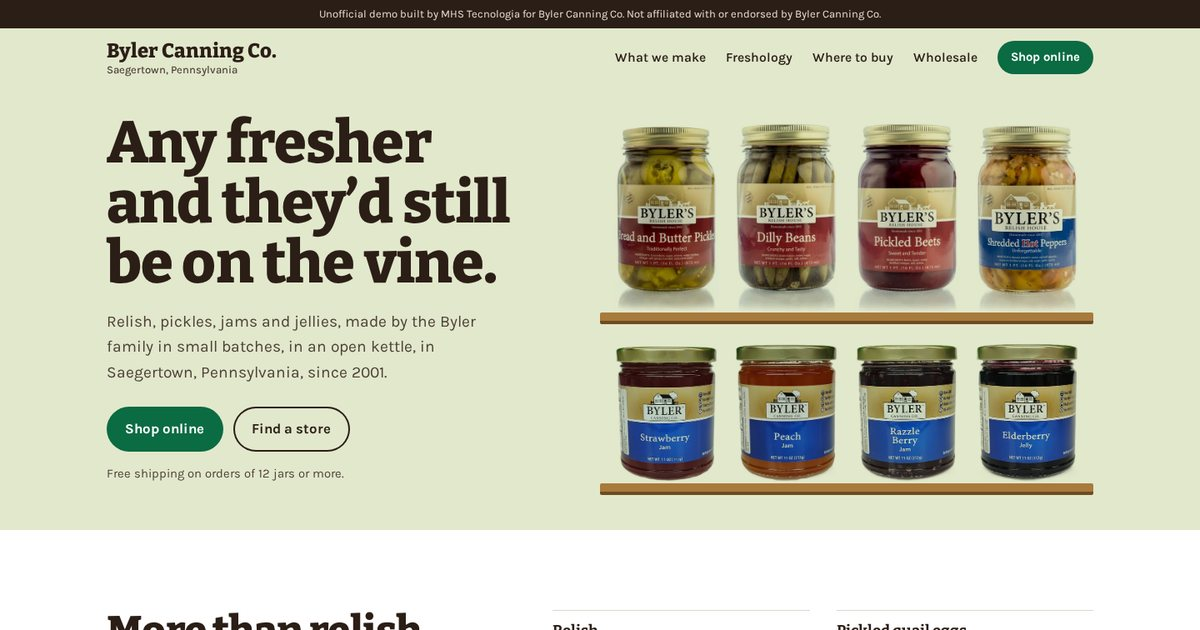
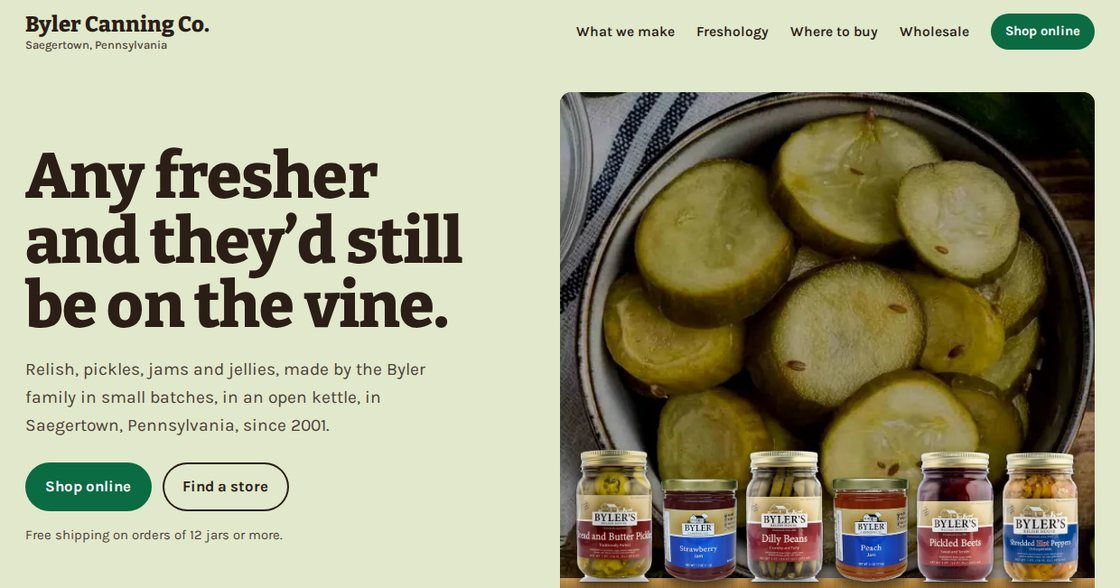
Previews: 11 ativos

diff --git a/byler-canning-pa/index.html b/byler-canning-pa/index.html
@@ -16,7 +16,7 @@
 <meta property="og:url" content="https://demo.mhstecnologia.com/byler-canning-pa/">
 <meta name="twitter:card" content="summary_large_image">
 <link rel="preload" as="font" type="font/woff2" href="fonts/bitter.woff2" crossorigin>
-<link rel="preload" as="image" href="img/jar-bread-butter-300.webp" imagesrcset="img/jar-bread-butter-300.webp 300w, img/jar-bread-butter-600.webp 600w" imagesizes="(max-width: 860px) 22vw, 140px" fetchpriority="high">
+<link rel="preload" as="image" href="img/hero-600.webp" imagesrcset="img/hero-600.webp 600w, img/hero-1000.webp 1000w" imagesizes="(max-width: 860px) calc(100vw - 2rem), 592px" fetchpriority="high">
 <style>
   @font-face { font-family: "Bitter"; font-weight: 100 900; font-display: swap; src: url(fonts/bitter.woff2) format("woff2"); }
   @font-face { font-family: "Karla"; font-weight: 200 800; font-display: swap; src: url(fonts/karla.woff2) format("woff2"); }
@@ -49,7 +49,7 @@
   h3 { font-size: 1.3rem; line-height: 1.2; font-weight: 700; }
   [id] { scroll-margin-top: 1rem; }
   .skip { position: absolute; left: -999px; top: .5rem; background: #fff; padding: .5rem 1rem; z-index: 10; }
-  .skip:focus { left: .5rem; }
+  .skip:focus { left: .5rem; outline: 3px solid var(--ink); outline-offset: 2px; border-radius: .25rem; }
   .wrap { max-width: var(--max); margin: 0 auto; }
   .num { font-variant-numeric: tabular-nums; }
 
@@ -72,21 +72,26 @@
 
   /* Hero: the copy on the left, the pantry on the right. Pints on the top
      shelf, jam on the bottom, every jar at its true height. */
-  .hero { display: grid; grid-template-columns: minmax(0, 1fr) minmax(0, 37rem); grid-template-areas: "copy a" "copy b"; column-gap: clamp(2rem, 5vw, 5rem); align-items: end; padding: clamp(1.5rem, 3vw, 2.5rem) var(--pad) clamp(2.5rem, 4vw, 3.5rem); max-width: calc(var(--max) + 2 * var(--pad)); margin: 0 auto; }
+  .hero { display: grid; grid-template-columns: minmax(0, 1fr) minmax(0, 37rem); grid-template-areas: "copy a"; column-gap: clamp(2rem, 5vw, 5rem); align-items: center; padding: clamp(1.5rem, 3vw, 2.5rem) var(--pad) clamp(2.5rem, 4vw, 3.5rem); max-width: calc(var(--max) + 2 * var(--pad)); margin: 0 auto; }
   .copy { grid-area: copy; align-self: center; }
   .hero h1 { font-size: clamp(2.35rem, 5vw, 4.4rem); line-height: 1.02; text-wrap: balance; max-width: 13ch; }
   .lede { margin-top: 1.2rem; max-width: 31rem; font-size: clamp(1.05rem, 1.35vw, 1.2rem); color: var(--ink-2); }
   .actions { margin-top: 1.6rem; display: flex; flex-wrap: wrap; gap: .75rem; }
   .hint { margin-top: .9rem; font-size: .925rem; color: var(--ink-2); }
 
-  .shelf { display: flex; justify-content: center; align-items: flex-end; gap: clamp(.4rem, 1.4vw, 1.1rem); padding: 0 1rem; position: relative; }
-  .shelf.a { grid-area: a; }
-  .shelf.b { grid-area: b; margin-top: 1.6rem; }
-  .shelf::after { content: ""; position: absolute; left: 0; right: 0; bottom: -14px; height: 14px; border-radius: 2px;
-    background: linear-gradient(var(--oak) 0 70%, var(--oak-dk) 70%); box-shadow: 0 10px 14px -8px rgba(43,30,22,.45); }
-  .shelf a { display: block; flex: 0 1 8.4rem; border-radius: .4rem; }
-  .shelf img { width: 100%; mix-blend-mode: multiply; }
-  .shelf.b a { flex-basis: 8.1rem; }
+  /* The stage: their own bowl of pickles, with an oak shelf of jars in front. */
+  .stage { grid-area: a; position: relative; border-radius: .8rem; overflow: hidden; aspect-ratio: 592 / 560; background: #3a4a2c; }
+  .stage > img { position: absolute; inset: 0; width: 100%; height: 100%; object-fit: cover; object-position: 50% 30%; }
+  .stage::before { content: ""; position: absolute; inset: auto 0 0 0; height: 45%; background: linear-gradient(transparent, rgba(30,20,10,.42)); }
+  .shelf { position: absolute; left: 0; right: 0; bottom: 0; display: flex; justify-content: center; align-items: flex-end; gap: clamp(.3rem, .8vw, .6rem); padding: 0 clamp(.7rem, 1.6vw, 1.1rem) 20px; }
+  .shelf::after { content: ""; position: absolute; left: 0; right: 0; bottom: 0; height: 22px;
+    background:
+      repeating-linear-gradient(90deg, rgba(60,35,10,.10) 0 1px, transparent 1px 7px, rgba(255,235,200,.08) 7px 8px, transparent 8px 19px),
+      linear-gradient(#c79a5a 0, #b0823f 30%, #96692d 72%, #6b4a1f 72%, #5a3d18 100%);
+    box-shadow: 0 -1px 0 rgba(255,230,190,.35) inset; }
+  .shelf a { position: relative; z-index: 1; display: block; flex: 0 1 6.4rem; border-radius: .4rem; margin-bottom: -2px; }
+  .shelf img { width: 100%; filter: drop-shadow(0 8px 6px rgba(20,12,4,.45)) drop-shadow(0 1px 1px rgba(20,12,4,.5)); }
+  .chips { display: none; }
 
   section { padding: clamp(3.5rem, 7vw, 6rem) var(--pad); }
   .intro { max-width: 40rem; margin-top: 1rem; color: var(--ink-2); font-size: 1.1rem; }
@@ -106,24 +111,24 @@
 
   /* Freshology: their own word, set the way a dictionary would set it. */
   .fresh { background: var(--brine); }
-  .fresh .wrap { display: grid; grid-template-columns: minmax(0, 5fr) minmax(0, 6fr); gap: 2.5rem clamp(2rem, 5vw, 4.5rem); align-items: center; }
+  .fresh .wrap { display: grid; grid-template-columns: minmax(0, 6fr) minmax(0, 5fr); gap: 2.5rem clamp(2rem, 6vw, 6rem); align-items: start; }
   .entry .word { font-family: "Bitter", serif; font-weight: 800; color: var(--beet); font-size: clamp(2.9rem, 6vw, 4.7rem); line-height: .95; letter-spacing: -0.02em; }
   .entry .word span { color: var(--oak-dk); font-weight: 400; padding: 0 .04em; }
   .entry .pos { margin-top: .8rem; font-style: italic; color: var(--ink-2); }
   .entry .def { margin-top: .5rem; font-family: "Bitter", serif; font-weight: 500; font-size: clamp(1.2rem, 2vw, 1.5rem); line-height: 1.4; max-width: 30rem; }
   .entry .see { margin-top: .8rem; color: var(--ink-2); }
-  .fresh figure img { width: 100%; aspect-ratio: 1890 / 900; object-fit: cover; border-radius: .6rem; }
-  .fresh figcaption, .recipes figcaption { margin-top: .55rem; font-size: .875rem; color: var(--ink-2); }
-  .how { grid-column: 1 / -1; list-style: none; padding: 0; counter-reset: s; display: grid; grid-template-columns: repeat(3, minmax(0, 1fr)); gap: clamp(1.25rem, 3vw, 2.5rem); margin-top: clamp(1rem, 2vw, 1.5rem); }
-  .how li { counter-increment: s; border-top: 3px solid var(--ink); padding-top: 1rem; }
-  .how li::before { content: counter(s); font-family: "Bitter", serif; font-weight: 800; font-size: 1.1rem; color: var(--beet); display: block; margin-bottom: .3rem; }
+  .recipes figcaption { margin-top: .55rem; font-size: .875rem; color: var(--ink-2); }
+  .how { list-style: none; padding: 0; counter-reset: s; display: grid; gap: 1.5rem; }
+  .how li { counter-increment: s; border-top: 3px solid var(--ink); padding-top: .9rem; display: grid; grid-template-columns: 2rem 1fr; }
+  .how li > * { grid-column: 2; }
+  .how li::before { content: counter(s); grid-column: 1; grid-row: 1; font-family: "Bitter", serif; font-weight: 800; font-size: 1.3rem; line-height: 1.2; color: var(--beet); }
   .how p { margin-top: .4rem; color: var(--ink-2); }
-  .facts { grid-column: 1 / -1; display: flex; flex-wrap: wrap; gap: .6rem 2rem; font-weight: 600; padding-top: 1.4rem; border-top: 1px solid var(--brine-2); }
+  .facts { display: flex; flex-wrap: wrap; gap: .5rem 1.6rem; font-weight: 700; margin-top: 1.8rem; padding-top: 1.1rem; border-top: 1px solid #b7c196; }
 
   /* Recipes from their kitchen. Square photos, as they were shot. */
   .recipes .grid { margin-top: 2rem; display: grid; grid-template-columns: repeat(3, minmax(0, 1fr)); gap: 1.25rem; }
   .recipes figure a { display: block; text-decoration: none; }
-  .recipes img { width: 100%; aspect-ratio: 1; object-fit: cover; border-radius: .5rem; }
+  .recipes img { width: 100%; aspect-ratio: 4 / 3; object-fit: cover; border-radius: .5rem; }
   .recipes figcaption { font-family: "Bitter", serif; font-weight: 700; font-size: 1.05rem; color: var(--ink); }
   .recipes figure a:hover figcaption { text-decoration: underline; text-underline-offset: 4px; }
   .more { margin-top: 1.8rem; }
@@ -148,8 +153,10 @@
   .trade .btn:hover { background: #ecc685; }
   .trade a:not(.btn) { color: #fff; }
 
-  .contact .wrap { display: grid; grid-template-columns: minmax(0, 6fr) minmax(0, 5fr); gap: clamp(2rem, 5vw, 4rem); align-items: start; }
-  .card { border-top: 3px solid var(--ink); padding-top: 1.2rem; display: grid; gap: 1rem; }
+  .contact { padding-block: clamp(3rem, 5vw, 4.5rem); }
+  .contact .wrap { display: grid; grid-template-columns: minmax(0, 5fr) minmax(0, 7fr); gap: clamp(2rem, 5vw, 4rem); align-items: start; }
+  .card { border-top: 3px solid var(--ink); padding-top: 1.2rem; display: grid; grid-template-columns: 1fr 1fr; gap: 1rem 2rem; align-items: start; }
+  .card > div { display: grid; gap: .8rem; }
   .card address { font-style: normal; }
   .card .big { font-family: "Bitter", serif; font-weight: 700; font-size: clamp(1.4rem, 2.6vw, 1.8rem); text-decoration: none; }
   .card .big:hover { text-decoration: underline; text-underline-offset: 5px; }
@@ -158,41 +165,45 @@
 
   footer { background: var(--brine); padding: 1.5rem var(--pad) calc(1.5rem + env(safe-area-inset-bottom)); font-size: .875rem; color: var(--ink-2); text-align: center; }
   footer p { max-width: 50rem; margin: 0 auto; }
-  .dock { display: none; }
+  .dock { display: none; visibility: hidden; }
 
   @media (max-width: 860px) {
     header { padding-top: .7rem; }
     header nav a:not(.btn) { display: none; }
     .mark { font-size: 1.3rem; }
     .mark small { font-size: .75rem; }
-    .hero { grid-template-columns: 1fr; grid-template-areas: "a" "copy" "b"; padding-top: .75rem; padding-bottom: 2.5rem; }
-    .shelf { padding: 0 .4rem; gap: .5rem; }
-    .shelf a { flex-basis: 22%; }
-    .shelf.b a { flex-basis: 22%; }
-    .shelf.b { margin-top: 2.6rem; }
-    .copy { margin-top: 1.6rem; }
+    .hero { grid-template-columns: 1fr; grid-template-areas: "a" "copy"; padding-top: .75rem; padding-bottom: 2.5rem; }
+    html { scroll-padding-bottom: 5rem; }
+    .stage { aspect-ratio: 4 / 3; }
+    .shelf { gap: .5rem; padding-bottom: 16px; }
+    .shelf::after { height: 18px; }
+    .shelf a { flex-basis: 4.1rem; }
+    .shelf .wide { display: none; }
+    .copy { margin-top: 1.25rem; }
     .hero h1 { font-size: clamp(2rem, 8.6vw, 2.6rem); max-width: none; }
     .lede { margin-top: .7rem; font-size: 1rem; line-height: 1.5; }
     .actions { margin-top: 1.1rem; }
     .actions .btn { flex: 1 1 auto; }
     .hint { font-size: .875rem; margin-top: .6rem; }
+    .chips { display: flex; gap: .5rem; margin-top: 1.1rem; }
+    .chips a { flex: 1 1 0; text-align: center; padding: .6rem .4rem; border-radius: 2rem; background: rgba(255,255,255,.65); box-shadow: inset 0 0 0 1px rgba(43,30,22,.25); font-weight: 700; font-size: .925rem; text-decoration: none; }
 
-    .make .wrap, .fresh .wrap, .contact .wrap, .cols, .doors { grid-template-columns: 1fr; }
+    .make .wrap, .fresh .wrap, .contact .wrap, .cols, .doors, .card { grid-template-columns: 1fr; }
     .aisles summary { display: flex; justify-content: space-between; align-items: center; cursor: pointer; list-style: none; padding: 1rem 0; border-top: 3px solid var(--ink); font-weight: 700; font-size: 1.05rem; }
     .aisles summary::-webkit-details-marker { display: none; }
     .aisles summary::after { content: "+"; font-size: 1.5rem; line-height: 1; }
     .aisles[open] summary::after { content: "\2013"; }
     .aisles ul { columns: 1; }
-    .fresh figure { order: -1; }
-    .how { grid-template-columns: 1fr; gap: 1.25rem; }
+    .how { gap: 1.25rem; }
     .how p { margin-top: .25rem; }
     .facts { gap: .4rem 1.4rem; }
     .recipes .grid { grid-template-columns: 1fr 1fr; gap: .9rem .75rem; }
+    .recipes figure:first-child { grid-column: 1 / -1; }
     .recipes figcaption { font-size: .95rem; }
 
     .dock { display: flex; position: fixed; left: .75rem; right: .75rem; bottom: calc(.75rem + env(safe-area-inset-bottom)); z-index: 5; box-shadow: 0 8px 24px rgba(43,30,22,.35);
-      opacity: 0; transform: translateY(1rem); pointer-events: none; transition: opacity .2s ease, transform .2s ease; }
-    .dock.on { opacity: 1; transform: none; pointer-events: auto; }
+      opacity: 0; transform: translateY(1rem); pointer-events: none; transition: opacity .2s ease, transform .2s ease, visibility .2s; }
+    .dock.on { opacity: 1; transform: none; pointer-events: auto; visibility: visible; }
     footer { padding-bottom: calc(5.5rem + env(safe-area-inset-bottom)); }
   }
   @media (prefers-reduced-motion: reduce) {
@@ -219,11 +230,16 @@
 
     <main id="main">
       <div class="hero">
-        <div class="shelf a" aria-label="Pickles and vegetables, 16 oz jars">
-          <a href="https://bylercanningco.com/bread-and-butter-pickles/"><img src="img/jar-bread-butter-300.webp" srcset="img/jar-bread-butter-300.webp 300w, img/jar-bread-butter-600.webp 600w" sizes="(max-width: 860px) 22vw, 140px" width="300" height="538" alt="Bread and Butter Pickles" fetchpriority="high"></a>
-          <a href="https://bylercanningco.com/dilly-beans/"><img src="img/jar-dilly-beans-300.webp" srcset="img/jar-dilly-beans-300.webp 300w, img/jar-dilly-beans-600.webp 600w" sizes="(max-width: 860px) 22vw, 140px" width="300" height="544" alt="Dilly Beans"></a>
-          <a href="https://bylercanningco.com/pickled-beets/"><img src="img/jar-beets-300.webp" srcset="img/jar-beets-300.webp 300w, img/jar-beets-600.webp 600w" sizes="(max-width: 860px) 22vw, 140px" width="300" height="544" alt="Pickled Beets"></a>
-          <a href="https://bylercanningco.com/shredded-hot-peppers-in-oil/"><img src="img/jar-hot-peppers-300.webp" srcset="img/jar-hot-peppers-300.webp 300w, img/jar-hot-peppers-600.webp 600w" sizes="(max-width: 860px) 22vw, 140px" width="300" height="539" alt="Shredded Hot Peppers in Oil"></a>
+        <div class="stage">
+          <img src="img/hero-600.webp" srcset="img/hero-600.webp 600w, img/hero-1000.webp 1000w" sizes="(max-width: 860px) calc(100vw - 2rem), 592px" width="600" height="540" alt="A bowl of sliced pickles with fresh cucumbers, dill and coarse salt" fetchpriority="high">
+          <div class="shelf" role="group" aria-label="Byler jars">
+            <a href="https://bylercanningco.com/bread-and-butter-pickles/"><img src="img/cut-bread-butter-200.webp" srcset="img/cut-bread-butter-200.webp 200w, img/cut-bread-butter-400.webp 400w" sizes="(max-width: 860px) 66px, 92px" width="200" height="344" alt="Bread and Butter Pickles"></a>
+            <a href="https://bylercanningco.com/strawberry-jam-11-oz/"><img src="img/cut-strawberry-200.webp" srcset="img/cut-strawberry-200.webp 200w, img/cut-strawberry-400.webp 400w" sizes="(max-width: 860px) 66px, 92px" width="200" height="268" alt="Strawberry Jam"></a>
+            <a href="https://bylercanningco.com/dilly-beans/"><img src="img/cut-dilly-beans-200.webp" srcset="img/cut-dilly-beans-200.webp 200w, img/cut-dilly-beans-400.webp 400w" sizes="(max-width: 860px) 66px, 92px" width="200" height="341" alt="Dilly Beans"></a>
+            <a class="wide" href="https://bylercanningco.com/peach-jam-11-oz/"><img src="img/cut-peach-200.webp" srcset="img/cut-peach-200.webp 200w, img/cut-peach-400.webp 400w" sizes="(max-width: 860px) 66px, 92px" width="200" height="271" alt="Peach Jam"></a>
+            <a class="wide" href="https://bylercanningco.com/pickled-beets/"><img src="img/cut-beets-200.webp" srcset="img/cut-beets-200.webp 200w, img/cut-beets-400.webp 400w" sizes="(max-width: 860px) 66px, 92px" width="200" height="339" alt="Pickled Beets"></a>
+            <a href="https://bylercanningco.com/shredded-hot-peppers-in-oil/"><img src="img/cut-hot-peppers-200.webp" srcset="img/cut-hot-peppers-200.webp 200w, img/cut-hot-peppers-400.webp 400w" sizes="(max-width: 860px) 66px, 92px" width="200" height="338" alt="Shredded Hot Peppers in Oil"></a>
+          </div>
         </div>
 
         <div class="copy">
@@ -234,14 +250,13 @@
             <a class="btn line" href="https://bylercanningco.com/find-a-store-near-me/">Find a store</a>
           </div>
           <p class="hint">Free shipping on orders of 12 jars or more.</p>
+          <nav class="chips" aria-label="Sections">
+            <a href="#make">Products</a>
+            <a href="#buy">Stores</a>
+            <a href="#trade">Wholesale</a>
+          </nav>
         </div>
 
-        <div class="shelf b" aria-label="Jams and jelly, 11 oz jars">
-          <a href="https://bylercanningco.com/strawberry-jam-11-oz/"><img src="img/jar-strawberry-300.webp" srcset="img/jar-strawberry-300.webp 300w, img/jar-strawberry-600.webp 600w" sizes="(max-width: 860px) 22vw, 136px" width="300" height="397" alt="Strawberry Jam" loading="lazy"></a>
-          <a href="https://bylercanningco.com/peach-jam-11-oz/"><img src="img/jar-peach-300.webp" srcset="img/jar-peach-300.webp 300w, img/jar-peach-600.webp 600w" sizes="(max-width: 860px) 22vw, 136px" width="300" height="400" alt="Peach Jam" loading="lazy"></a>
-          <a href="https://bylercanningco.com/razzle-berry-jam-11-oz/"><img src="img/jar-razzle-300.webp" srcset="img/jar-razzle-300.webp 300w, img/jar-razzle-600.webp 600w" sizes="(max-width: 860px) 22vw, 136px" width="300" height="401" alt="Razzle Berry Jam" loading="lazy"></a>
-          <a href="https://bylercanningco.com/elderberry-jelly-11-oz/"><img src="img/jar-elderberry-300.webp" srcset="img/jar-elderberry-300.webp 300w, img/jar-elderberry-600.webp 600w" sizes="(max-width: 860px) 22vw, 136px" width="300" height="403" alt="Elderberry Jelly" loading="lazy"></a>
-        </div>
       </div>
     </main>
   </div>
@@ -279,17 +294,13 @@
         <p class="pos">noun</p>
         <p class="def">The belief that the only ingredients worth putting in your body come straight from the farm, with no additives, preservatives or high sodium.</p>
         <p class="see">See also: pure, natural, goodness.</p>
+        <p class="facts"><span>Low sodium</span><span>No MSG</span><span>No added preservatives</span><span>Keeps up to 3 years unopened</span></p>
       </div>
-      <figure>
-        <img src="img/pickles-800.webp" srcset="img/pickles-800.webp 800w, img/pickles-1400.webp 1400w" sizes="(max-width: 860px) calc(100vw - 2rem), 560px" width="800" height="381" alt="A bowl of sliced pickles beside fresh cucumbers, dill and coarse salt" loading="lazy">
-        <figcaption>Sliced pickles, with what goes into them.</figcaption>
-      </figure>
       <ol class="how">
         <li><h3>The freshest ingredients</h3><p>Nothing frozen or pre-canned. Most of it comes straight from the fields of local growers.</p></li>
         <li><h3>Inspected and cleaned by hand</h3><p>The team cleans the stems, cuts out any bad spots and washes every ingredient by hand. Every piece, every time.</p></li>
         <li><h3>Cooked in small batches</h3><p>Big batches mean longer cook times and duller flavor. Small batches in an open kettle keep it bright.</p></li>
       </ol>
-      <p class="facts"><span>Low sodium</span><span>No MSG</span><span>No added preservatives</span><span>Keeps up to 3 years unopened</span></p>
     </div>
   </section>
 
@@ -298,12 +309,9 @@
       <h2 id="rec-h">What to do with a jar.</h2>
       <p class="intro">Recipes from the Byler kitchen, each one built around something on the shelf.</p>
       <div class="grid">
-        <figure><a href="https://bylercanningco.com/shop-online/recipes/chicken-salad/"><img src="img/chicken-salad-480.webp" srcset="img/chicken-salad-480.webp 480w, img/chicken-salad-800.webp 800w" sizes="(max-width: 860px) 46vw, 380px" width="480" height="480" alt="Chicken salad on a sub roll, with Byler jars behind it" loading="lazy"><figcaption>Chicken Salad</figcaption></a></figure>
-        <figure><a href="https://bylercanningco.com/shop-online/recipes/pepper-relish-dip/"><img src="img/relish-dip-480.webp" srcset="img/relish-dip-480.webp 480w, img/relish-dip-800.webp 800w" sizes="(max-width: 860px) 46vw, 380px" width="480" height="480" alt="Pepper relish dip with crackers and red pepper strips" loading="lazy"><figcaption>Pepper Relish Dip</figcaption></a></figure>
-        <figure><a href="https://bylercanningco.com/shop-online/recipes/pickled-red-beet-deviled-eggs/"><img src="img/beet-eggs-480.webp" srcset="img/beet-eggs-480.webp 480w, img/beet-eggs-800.webp 800w, img/beet-eggs-1200.webp 1200w" sizes="(max-width: 860px) 46vw, 380px" width="480" height="480" alt="Pink pickled red beet deviled egg on a charcuterie board" loading="lazy"><figcaption>Pickled Red Beet Deviled Eggs</figcaption></a></figure>
-        <figure><a href="https://bylercanningco.com/shop-online/recipes/dagwood-sandwich/"><img src="img/dagwood-480.webp" srcset="img/dagwood-480.webp 480w, img/dagwood-800.webp 800w" sizes="(max-width: 860px) 46vw, 380px" width="480" height="480" alt="A tall Dagwood sandwich with pickles" loading="lazy"><figcaption>Dagwood Sandwich</figcaption></a></figure>
-        <figure><a href="https://bylercanningco.com/shop-online/recipes/cocktail-sauce/"><img src="img/cocktail-480.webp" srcset="img/cocktail-480.webp 480w, img/cocktail-800.webp 800w" sizes="(max-width: 860px) 46vw, 380px" width="480" height="480" alt="Shrimp around a bowl of cocktail sauce" loading="lazy"><figcaption>Cocktail Sauce</figcaption></a></figure>
-        <figure><a href="https://bylercanningco.com/shop-online/recipes/eggs-in-purgatory/"><img src="img/purgatory-480.webp" srcset="img/purgatory-480.webp 480w, img/purgatory-800.webp 800w" sizes="(max-width: 860px) 46vw, 380px" width="480" height="480" alt="Eggs poached in tomato sauce with basil" loading="lazy"><figcaption>Eggs in Purgatory</figcaption></a></figure>
+        <figure><a href="https://bylercanningco.com/shop-online/recipes/lemon-asparagus-hummus/"><img src="img/r-hummus-480.webp" srcset="img/r-hummus-480.webp 480w, img/r-hummus-800.webp 800w" sizes="(max-width: 860px) 46vw, 380px" width="480" height="360" alt="Lemon asparagus hummus with crackers, carrots and deviled eggs" loading="lazy"><figcaption>Lemon Asparagus Hummus</figcaption></a></figure>
+        <figure><a href="https://bylercanningco.com/shop-online/recipes/chicken-salad/"><img src="img/r-chicken-480.webp" width="480" height="360" alt="Chicken salad on a sub roll, with jars of Byler relish behind it" loading="lazy"><figcaption>Chicken Salad</figcaption></a></figure>
+        <figure><a href="https://bylercanningco.com/shop-now/recipes/honey-mustard-glazed-salmon/"><img src="img/r-salmon-480.webp" srcset="img/r-salmon-480.webp 480w, img/r-salmon-800.webp 800w" sizes="(max-width: 860px) 46vw, 380px" width="480" height="360" alt="Glazed salmon baked in parchment with zucchini and red onion" loading="lazy"><figcaption>Honey Mustard Glazed Salmon</figcaption></a></figure>
       </div>
       <p class="more"><a class="btn line" href="https://bylercanningco.com/recipes/">All the recipes</a></p>
     </div>
@@ -367,13 +375,17 @@
         <p class="intro">Questions about an order, an ingredient or a store near you. If no one picks up, leave a message with your time zone and the call is returned during phone hours.</p>
       </div>
       <div class="card">
-        <a class="big num" href="tel:+18147636510">(814) 763-6510</a>
-        <a class="mail" href="mailto:sales@bylercanningco.com?subject=Question%20for%20Byler%20Canning%20Co.">sales@bylercanningco.com</a>
+        <div>
+          <a class="big num" href="tel:+18147636510">(814) 763-6510</a>
+          <a class="mail" href="mailto:sales@bylercanningco.com?subject=Question%20for%20Byler%20Canning%20Co.&amp;body=Hello%20Byler%20Canning%20Co.%2C%0A%0AMy%20question%3A%0A%0AOrder%20number%20(if%20any)%3A%0A%0AThank%20you%2C%0A">sales@bylercanningco.com</a>
+        </div>
+        <div>
         <dl>
           <dt>Phone hours</dt>
           <dd>Monday to Friday, 7:30 AM to 4:00 PM Eastern</dd>
         </dl>
         <address translate="no">Byler Canning Co.<br>17186 Park Ave. Ext.<br>Saegertown, PA 16433</address>
+        </div>
       </div>
     </div>
   </section>
